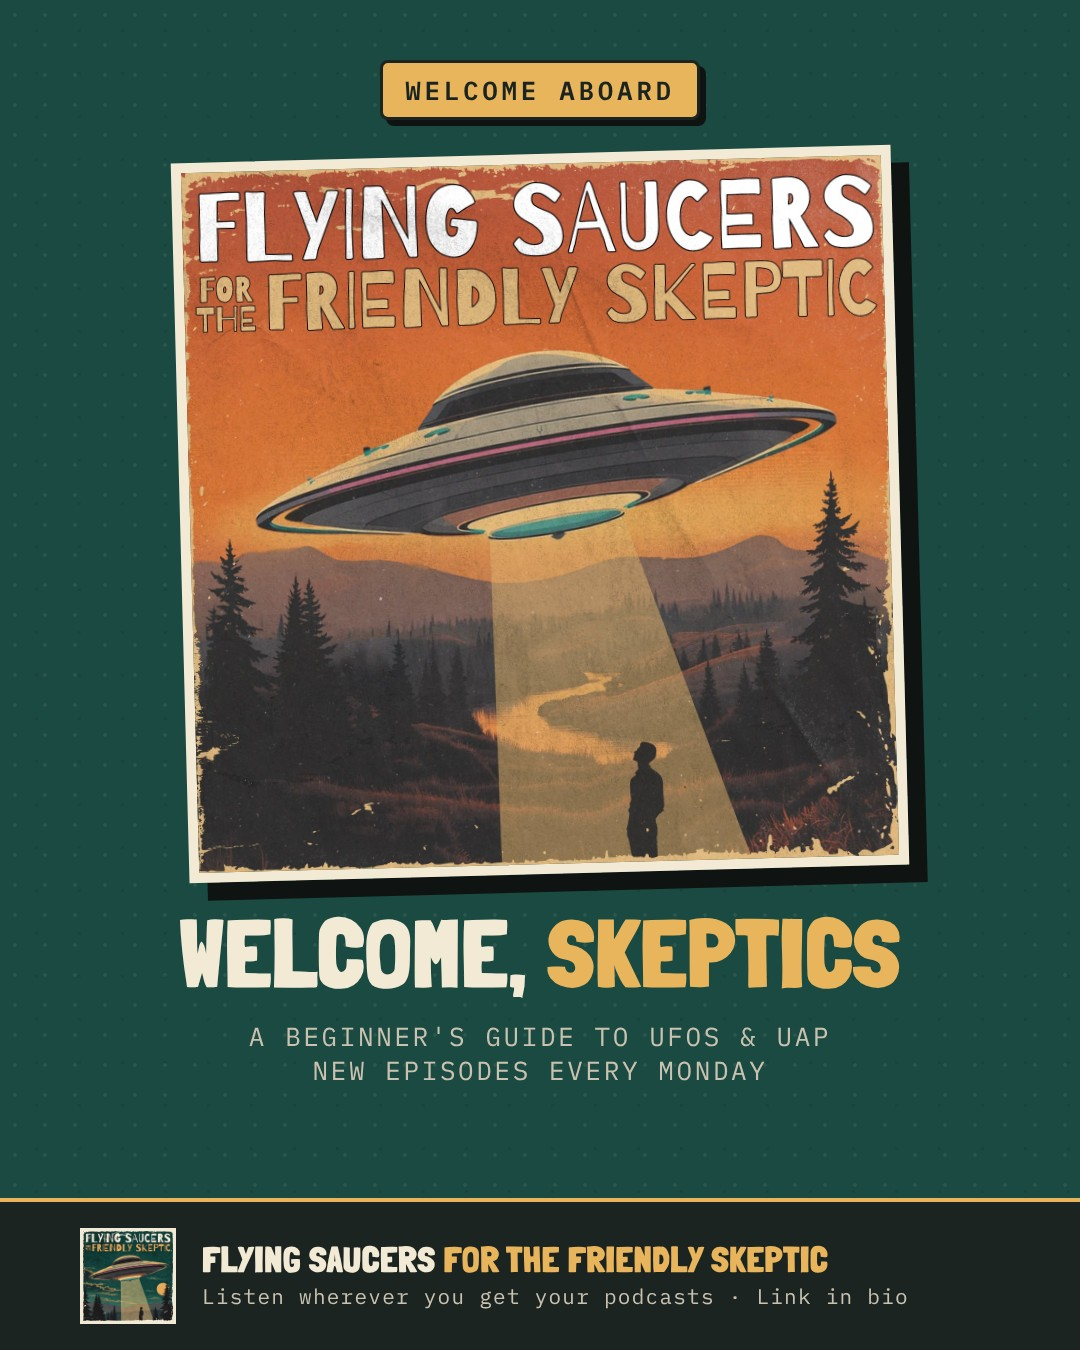
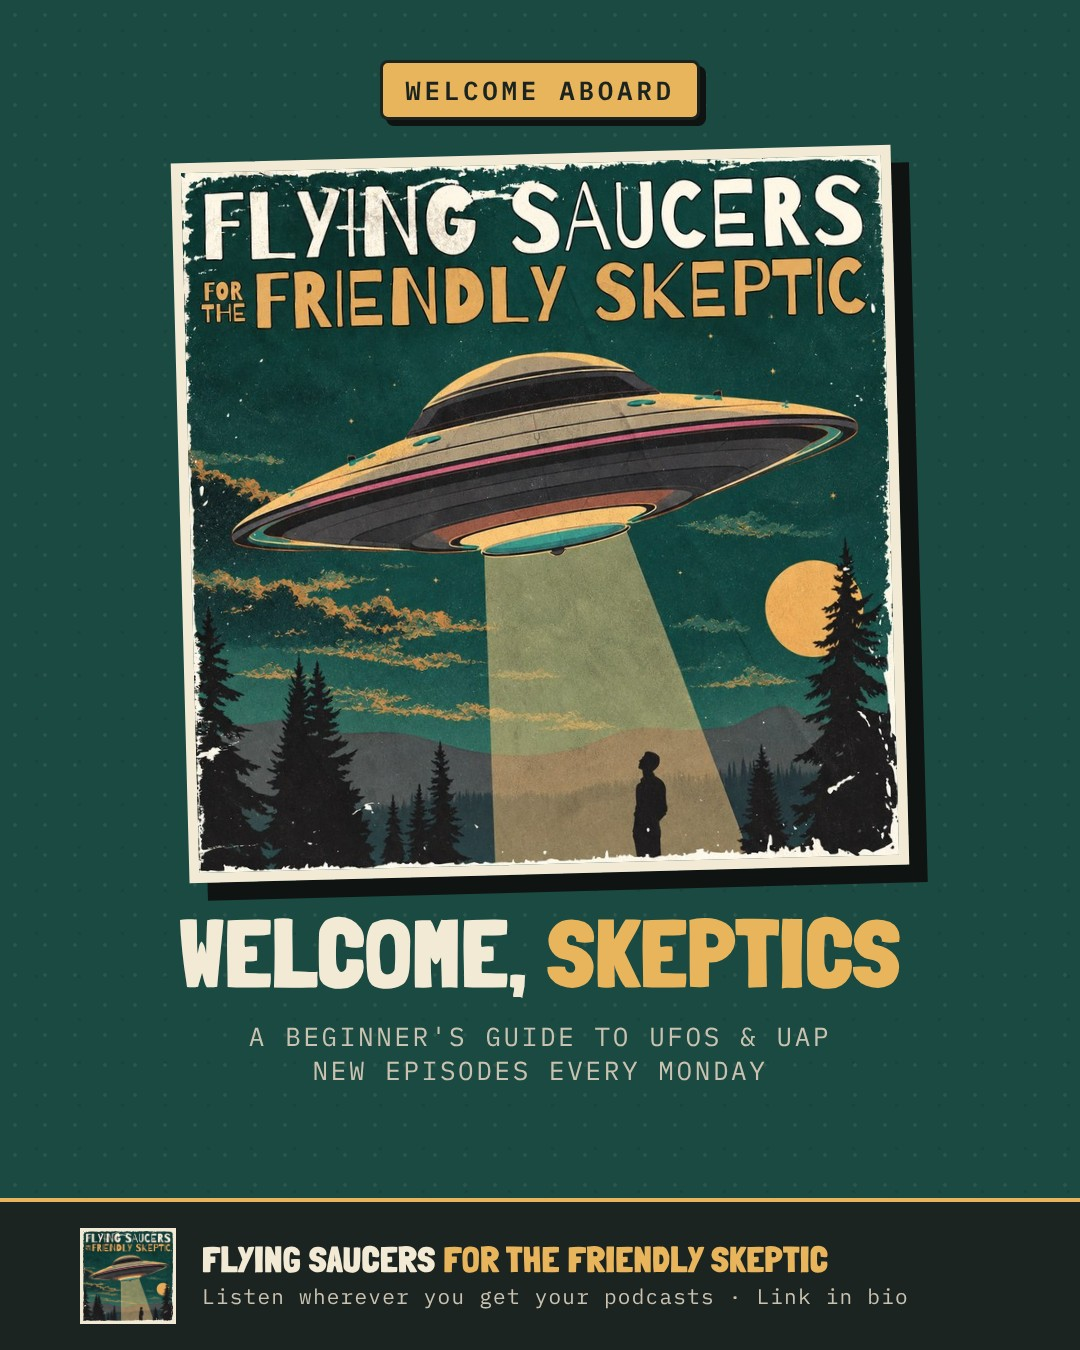
Welcome card: use current green cover art
Claude-Session: https://claude.ai/code/session_01LXmhUxXBRkj1ApxMBia8bw

Changed region(s): [[0.1528, 0.0933, 0.8556, 0.6533]]

diff --git a/social/make_card.py b/social/make_card.py
@@ -113,7 +113,7 @@ h1{{font-size:{size}px;text-align:center}}
 
 
 def welcome_card():
-    art = (SOCIAL / "cover-orange.jpg").as_uri()
+    art = (ROOT / "images" / "cover.jpg").as_uri()
     css = """
 .main{align-items:center;gap:34px;padding-top:60px}
 .badge{align-self:center}
